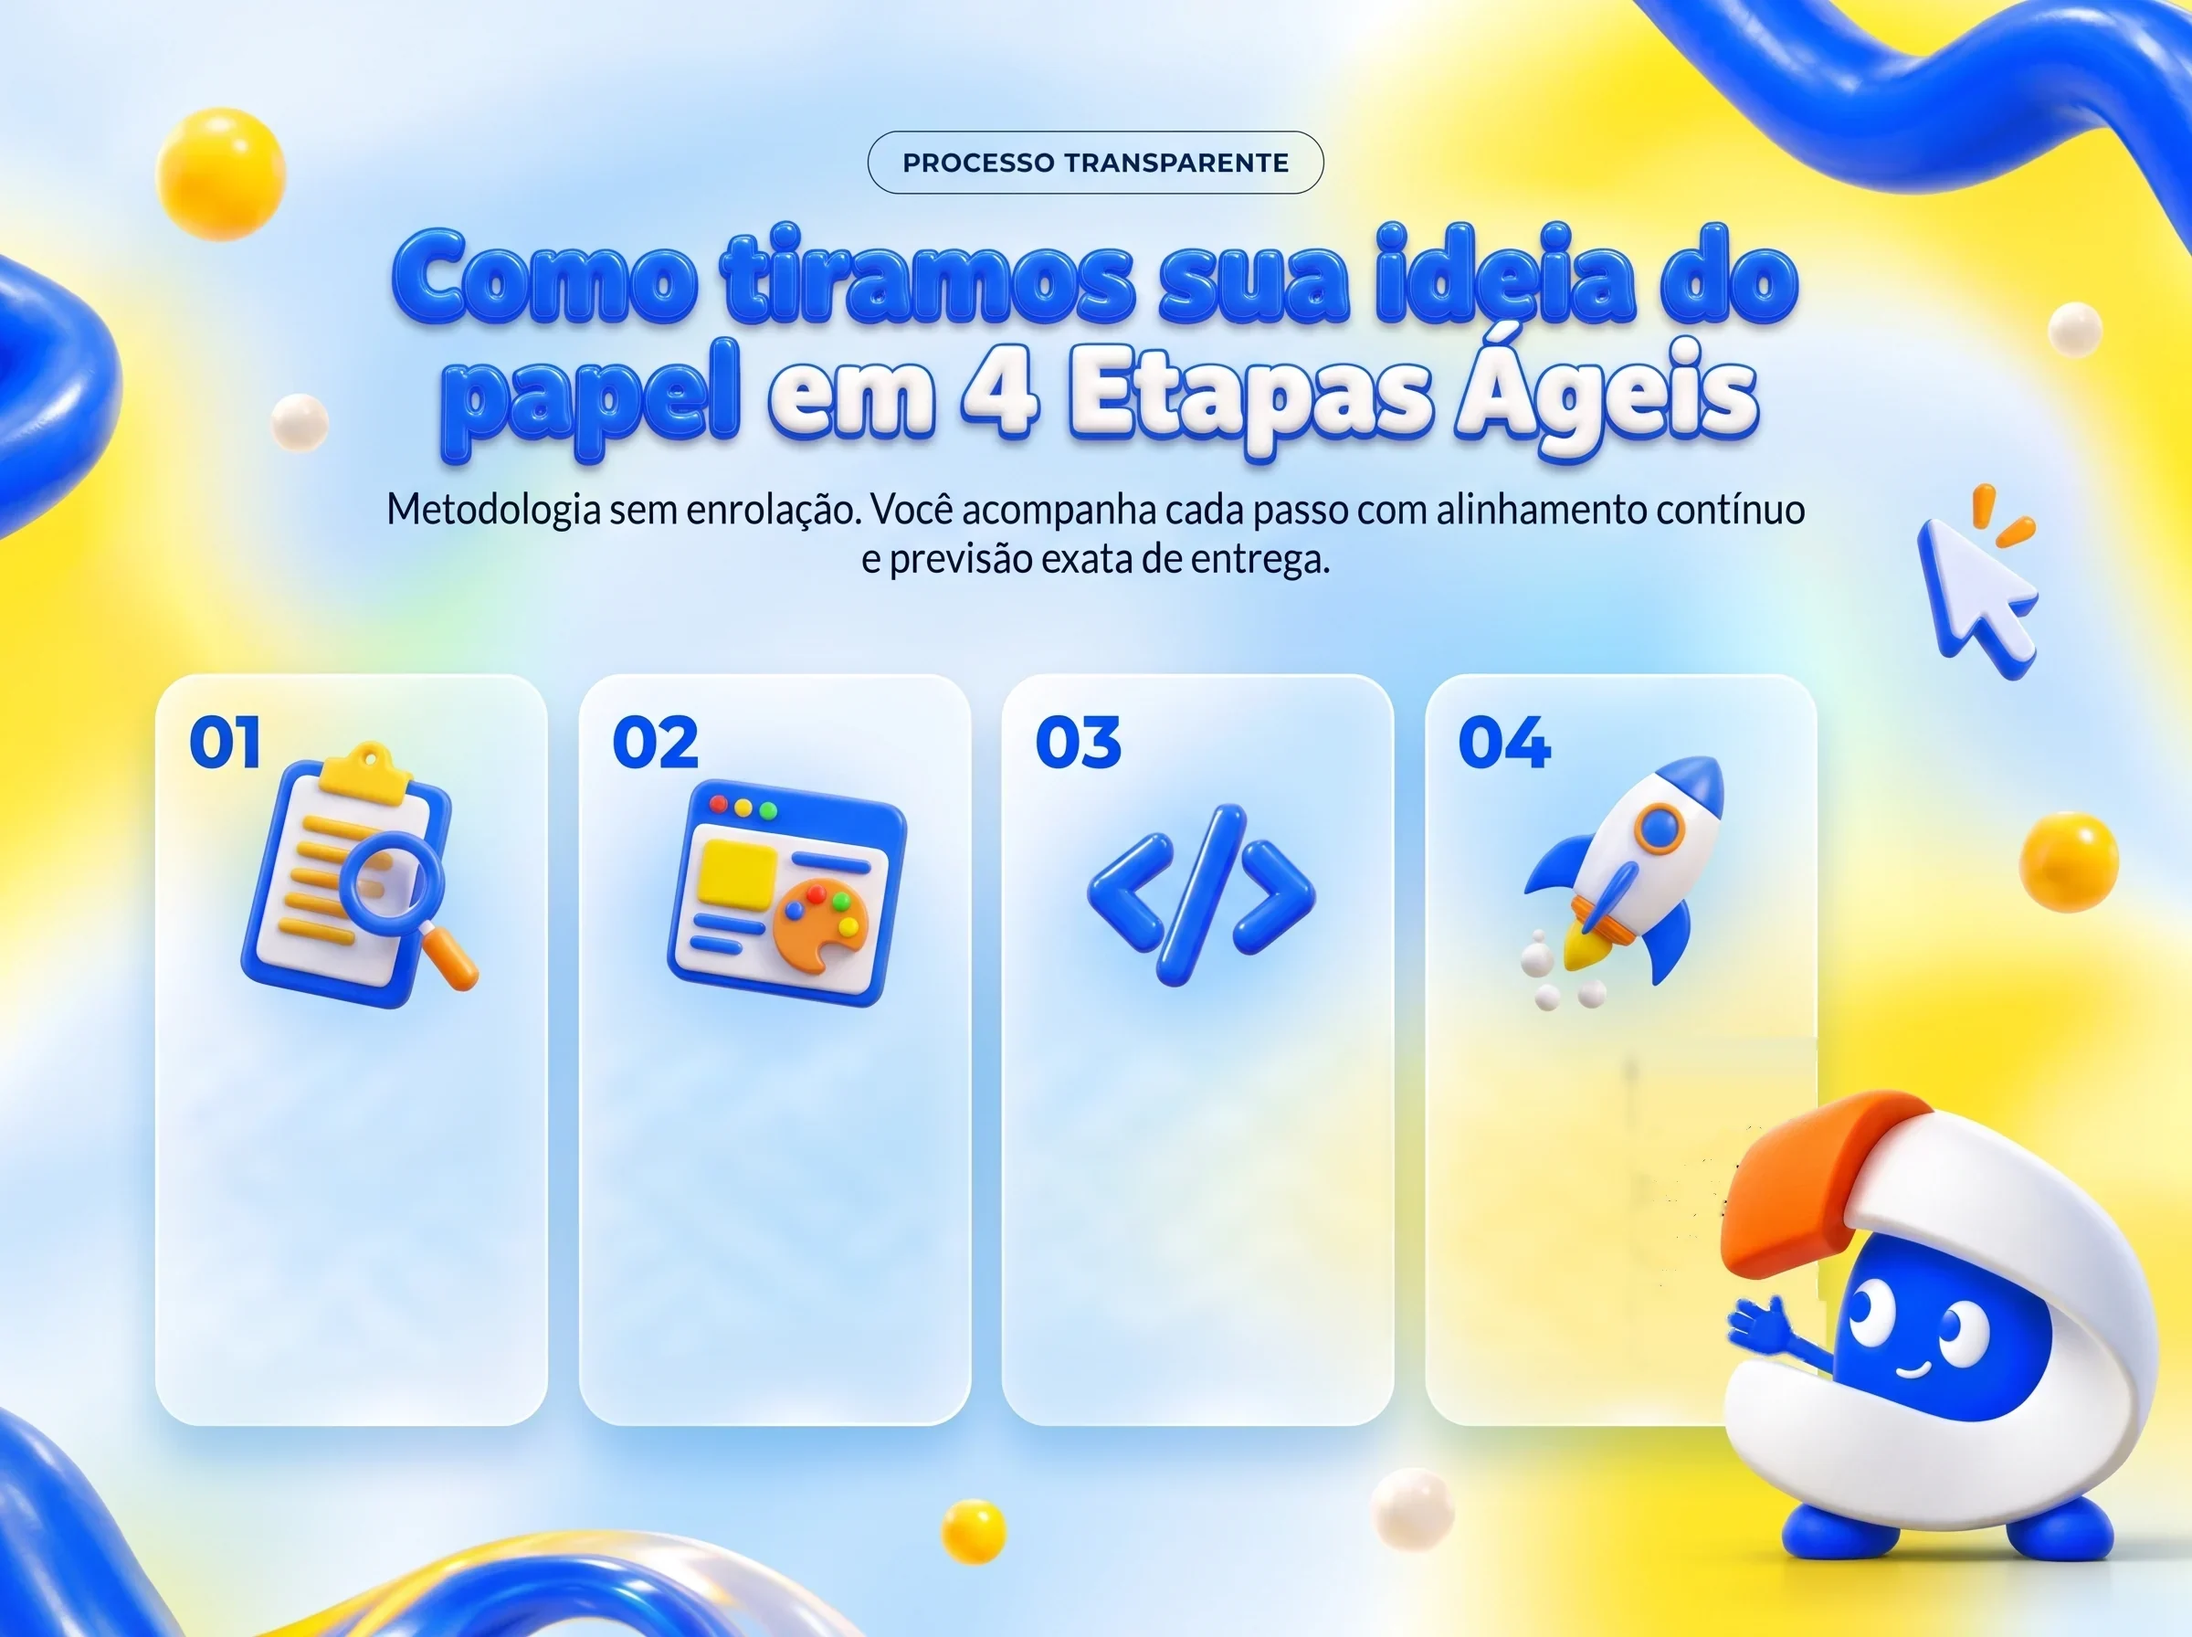
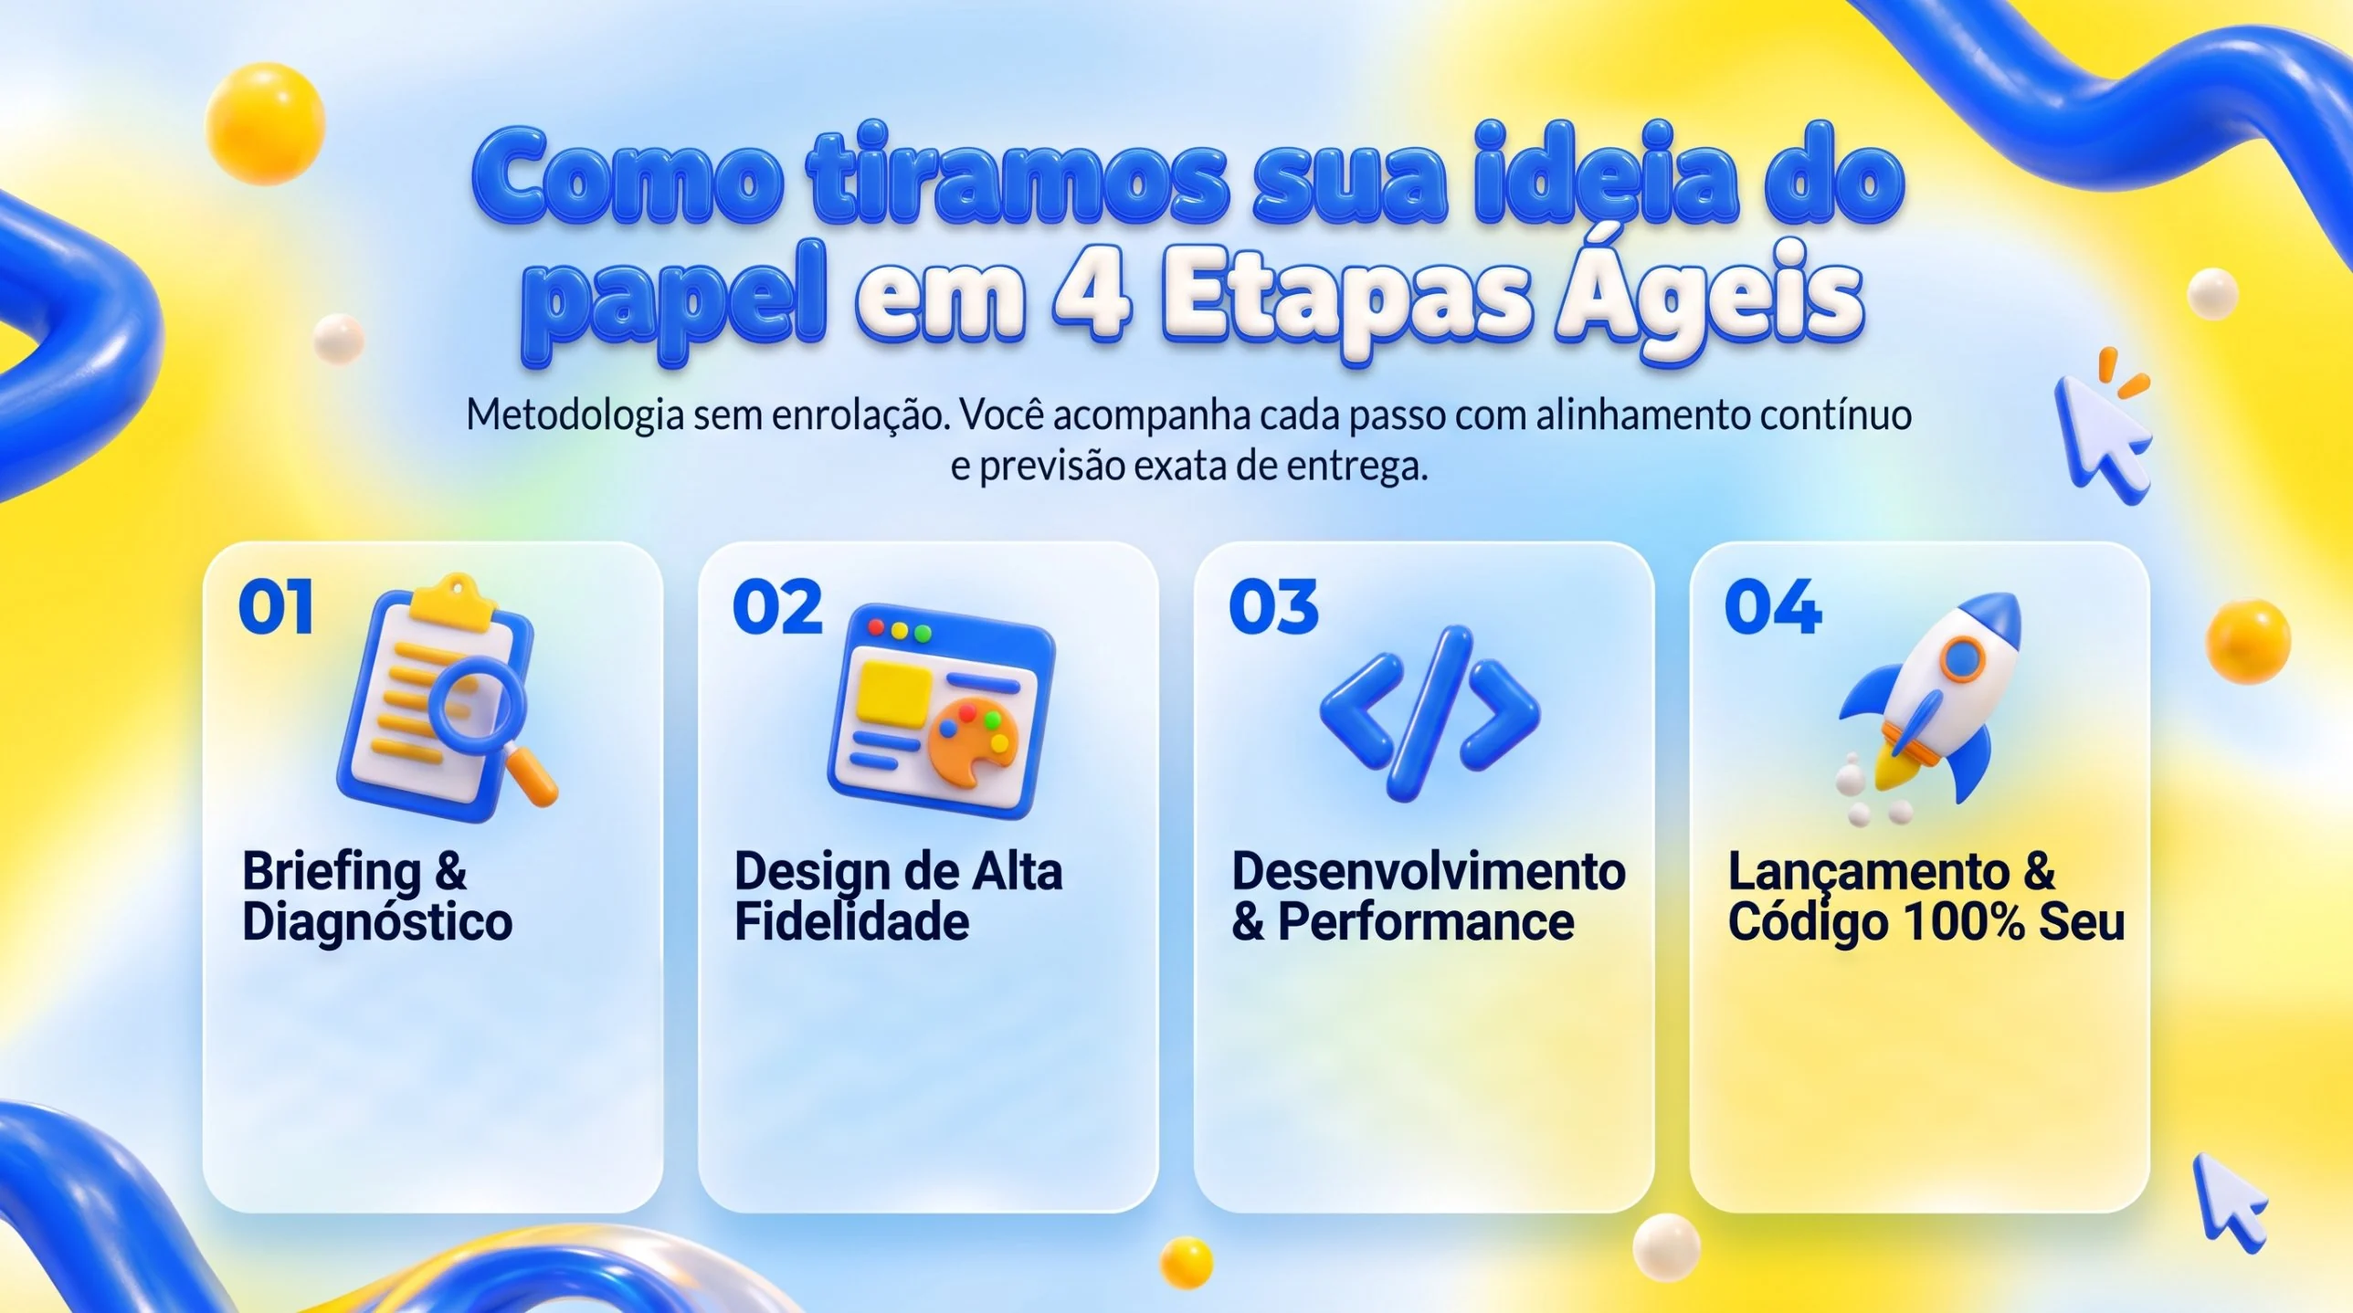
Troca a arte da seção "Processo" (desktop) pela nova versão
- Nova arte 16:9 com títulos dos cards; textos dos cards em HTML
- Fonte Roboto Condensed para combinar com a arte

Claude-Session: https://claude.ai/code/session_01116qkuPV9n5GHVeypah9k4

diff --git a/src/components/ProcessSection.tsx b/src/components/ProcessSection.tsx
@@ -14,7 +14,7 @@ type Etapa = { titulo: string; texto: string };
 const ETAPAS: Etapa[] = [
   {
     titulo: 'Briefing & Diagnóstico',
-    texto: 'Entendemos o seu modelo de negócio, seus diferenciais e o comportamento de compra do seu cliente ideal para desenhar a estratégia mais eficiente.',
+    texto: 'Entendemos o seu negócio, seus diferenciais e o seu cliente ideal para desenhar a estratégia mais eficiente.',
   },
   {
     titulo: 'Design de Alta Fidelidade',
@@ -32,10 +32,10 @@ const ETAPAS: Etapa[] = [
 
 /* Posição de cada card na arte: left, top e width em % da largura/altura da imagem */
 const POS_DESKTOP = [
-  { l: 8.6, t: 63.6, w: 15.6 },
-  { l: 27.9, t: 63.6, w: 15.6 },
-  { l: 47.15, t: 63.6, w: 15.8 },
-  { l: 66.5, t: 63.6, w: 12.4 },
+  { l: 10.25, t: 73.6, w: 17.6 },
+  { l: 31.15, t: 73.6, w: 17.6 },
+  { l: 52.25, t: 73.6, w: 17.6 },
+  { l: 73.4, t: 73.6, w: 17.0 },
 ];
 const POS_MOBILE = [
   { l: 39.1, t: 29.9, w: 43.5 },
@@ -44,7 +44,7 @@ const POS_MOBILE = [
   { l: 39.1, t: 79.7, w: 31.5 },
 ];
 
-const Cards: React.FC<{ pos: typeof POS_DESKTOP }> = ({ pos }) => (
+const Cards: React.FC<{ pos: typeof POS_DESKTOP; tituloNaArte?: boolean }> = ({ pos, tituloNaArte }) => (
   <ol className="cvp-lista">
     {ETAPAS.map((e, i) => (
       <li
@@ -52,7 +52,8 @@ const Cards: React.FC<{ pos: typeof POS_DESKTOP }> = ({ pos }) => (
         className="cvp-card"
         style={{ left: `${pos[i].l}%`, top: `${pos[i].t}%`, width: `${pos[i].w}%` }}
       >
-        <h3>{e.titulo}</h3>
+        {/* no computador o título do card já está na arte; aqui fica só para leitores e Google */}
+        <h3 className={tituloNaArte ? 'cvp-sr' : undefined}>{e.titulo}</h3>
         <p>{e.texto}</p>
       </li>
     ))}
@@ -69,8 +70,8 @@ export const ProcessSection: React.FC = () => (
     </div>
 
     <div className="cvp-arte cvp-desk">
-      <img src="/cv/processo-desktop.webp" alt="" width={2400} height={1792} loading="lazy" />
-      <Cards pos={POS_DESKTOP} />
+      <img src="/cv/processo-desktop.webp" alt="" width={2576} height={1438} loading="lazy" />
+      <Cards pos={POS_DESKTOP} tituloNaArte />
     </div>
 
     <div className="cvp-arte cvp-mob">

diff --git a/src/components/process.css b/src/components/process.css
@@ -7,8 +7,8 @@
   background: url('/cv/processo-desktop.webp') center / cover no-repeat;
   filter: blur(40px) saturate(1.1); opacity: .9;
 }
-.cvp-desk { max-width: 1446px; margin: 0 auto; }
-@media (min-width: 1480px) {
+.cvp-desk { max-width: 1920px; margin: 0 auto; }
+@media (min-width: 1960px) {
   .cvp-desk > img { -webkit-mask-image: linear-gradient(90deg, transparent 0, #000 6%, #000 94%, transparent 100%); mask-image: linear-gradient(90deg, transparent 0, #000 6%, #000 94%, transparent 100%); }
 }
 .cvp-sr { position: absolute; width: 1px; height: 1px; overflow: hidden; clip: rect(0 0 0 0); white-space: nowrap; }
@@ -23,7 +23,7 @@
 
 /* Computador: arte larga */
 .cvp-desk .cvp-card h3 { font-size: 1.75cqw; }
-.cvp-desk .cvp-card p { font-size: 1.12cqw; line-height: 1.38; }
+.cvp-desk .cvp-card p { font-family: 'Roboto Condensed', 'Montserrat', system-ui, sans-serif; font-size: 1.26cqw; line-height: 1.2; letter-spacing: 0; color: #101a3d; }
 
 /* Celular e tablet: arte vertical */
 .cvp-mob { display: none; }

diff --git a/index.html b/index.html
@@ -39,7 +39,7 @@
     <!-- Fontes e imagens -->
     <link rel="preconnect" href="https://fonts.googleapis.com" />
     <link rel="preconnect" href="https://fonts.gstatic.com" crossorigin />
-    <link rel="stylesheet" href="https://fonts.googleapis.com/css2?family=Fredoka:wght@600;700&family=Montserrat:wght@500;600;700;800&display=swap" />
+    <link rel="stylesheet" href="https://fonts.googleapis.com/css2?family=Fredoka:wght@600;700&family=Roboto+Condensed:wght@400;500&family=Montserrat:wght@500;600;700;800&display=swap" />
     <link rel="preload" as="image" href="/cv/hero-desktop.webp" media="(min-width: 761px)" />
     <link rel="preload" as="image" href="/cv/hero-mobile.webp" media="(max-width: 760px)" />
   </head>
